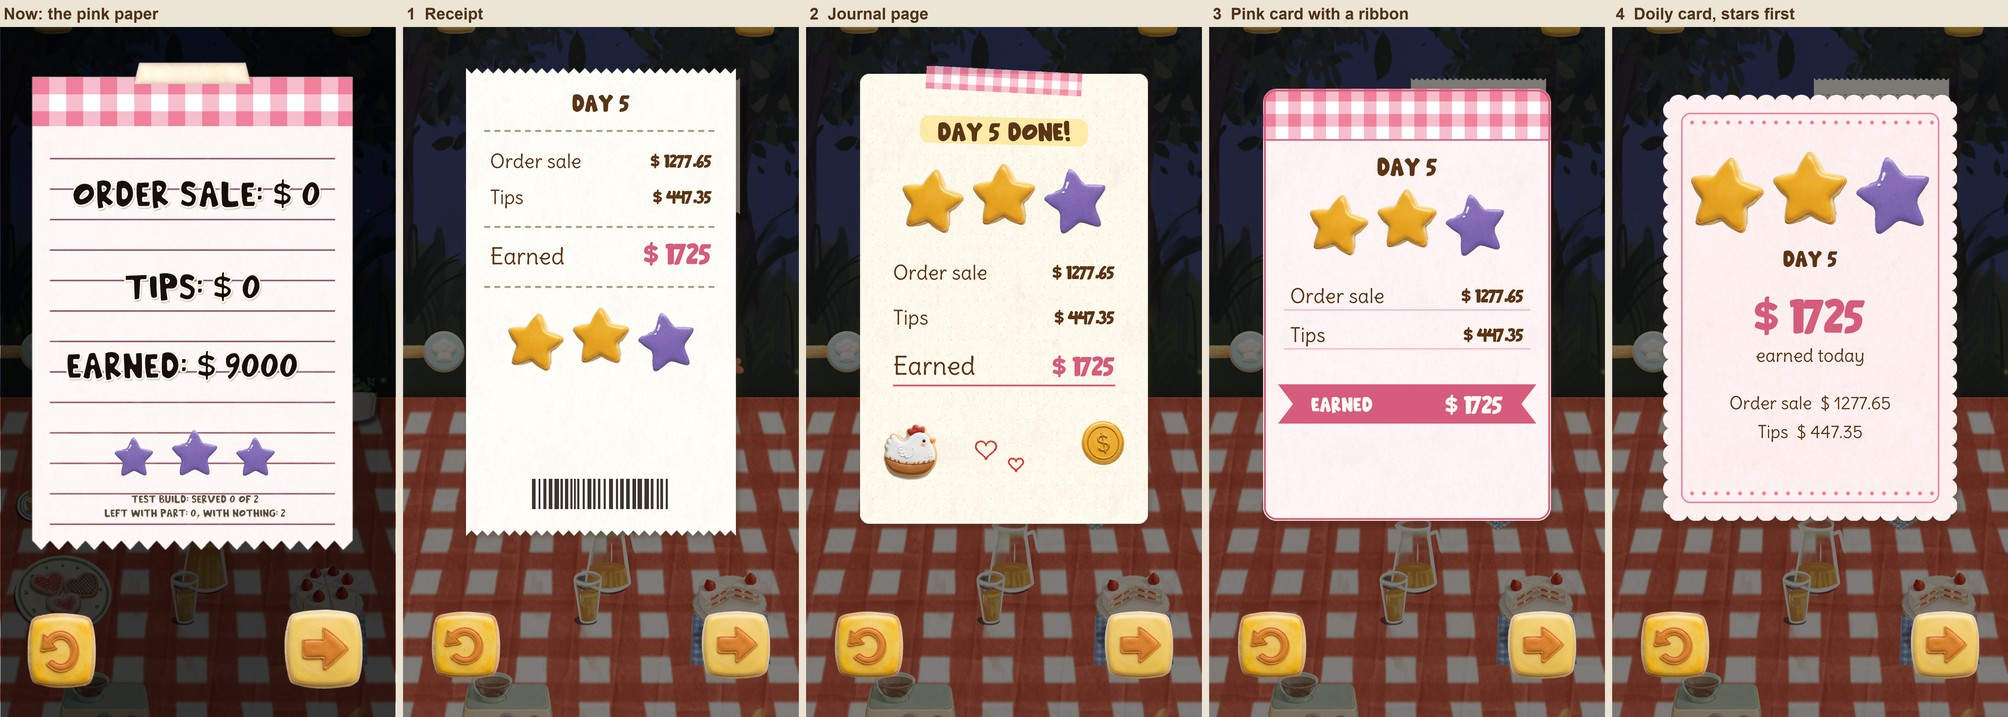
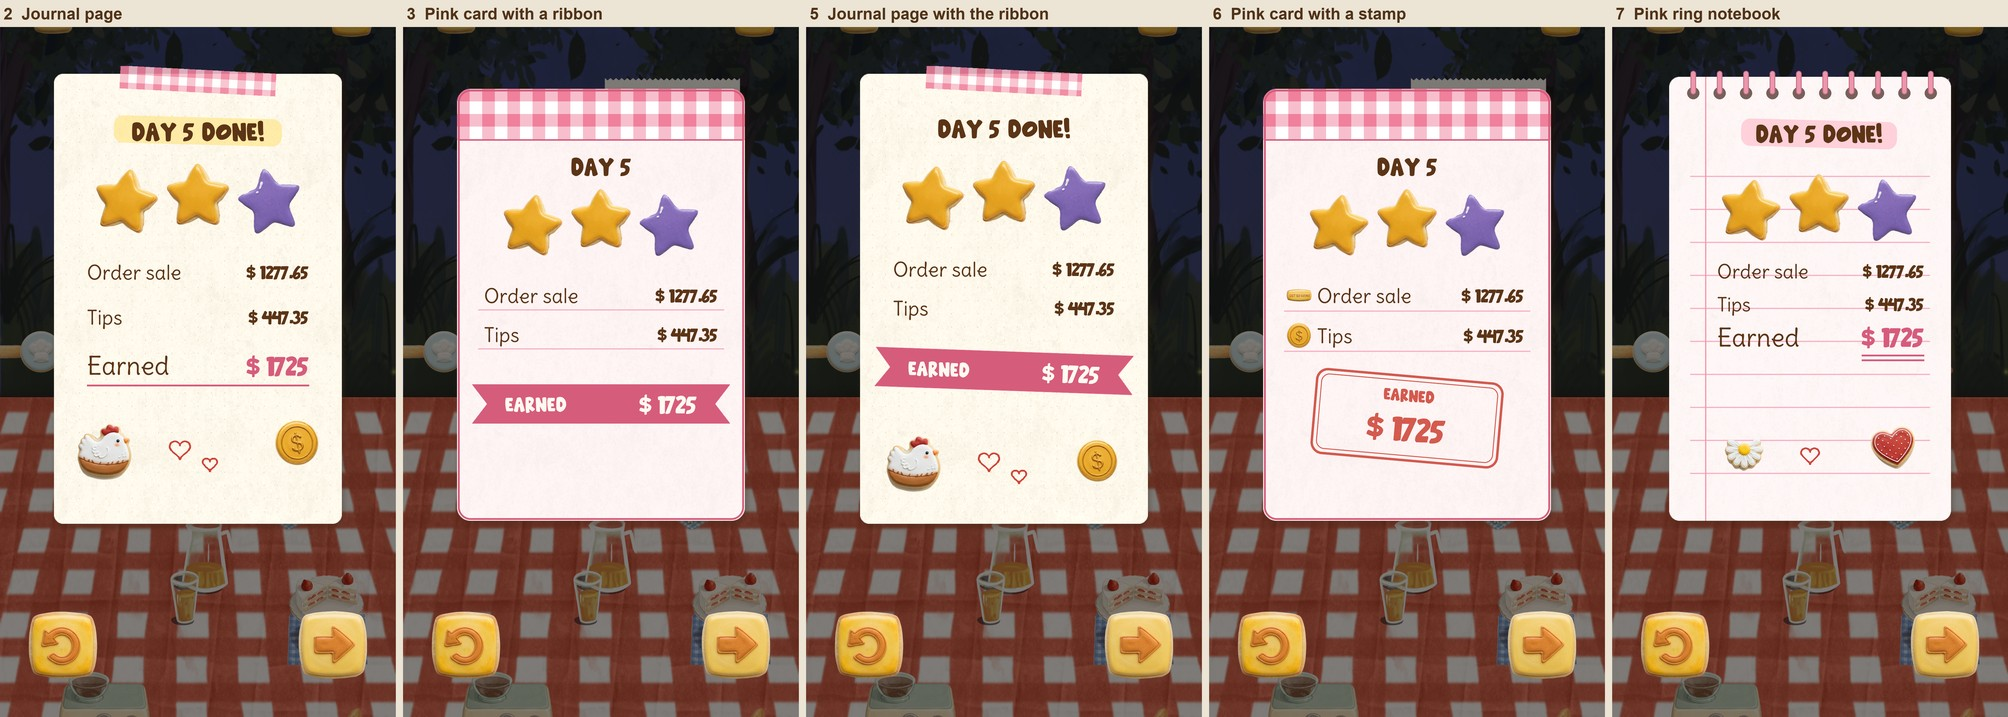
Report: kitchen upgrade, arranging lesson, shop before map, NEW on the book, day-end round 2, Q&A on the journal page's moment

diff --git a/Docs/tools/report_page/index.html b/Docs/tools/report_page/index.html
@@ -74,55 +74,94 @@ h3 small{font-weight:600;color:var(--soft);font-size:13px;margin-left:6px}
 <h2 id="next"><span class="n">1</span>Next</h2>
 <div class="grid">
 <div class="who p1"><h3>You</h3>
-<p><b>Test build 2026.11.19 (4) is in TestFlight</b> (18:50): build (3) plus the strawberry cake.</p>
-<p><b>Q&amp;A:</b> the drag-to-arrange lesson: four ways to make its timing clear.</p>
-<p><b>Current:</b> pick a day-end panel.</p>
-<p>The journal pages you approved (no brown tag) and the pink paper are in the project, after build (4).</p>
+<p><b>Test build 2026.11.19 (4) is the latest in TestFlight.</b> Everything in Current came after it; no new build until you say.</p>
+<p><b>Q&amp;A:</b> when a new journal page should show itself.</p>
+<p><b>Current:</b> pick a day-end panel; five other things to look at.</p>
 <p><b>MVP:</b> pick a mixer.</p>
 </div>
 <div class="who p2"><h3>Me</h3>
-<p>Unity's "No Adaptive Performance provider" box should not come back after a build (an empty helper package answers its check; nothing in the game changes). The next build will show whether it holds.</p>
+<p>A test build on your word.</p>
 </div>
 </div>
 
 <h2 id="qa"><span class="n">2</span>Q&amp;A</h2>
-<div class="q"><h3>The tutorial's drag-to-arrange: players may think they can always do it. How to fix?</h3>
+<div class="q"><h3>When should a new journal page show itself?</h3>
 <ul>
-<li><b>Why it confuses:</b> the tutorial on day 1 shows the hand dragging the coffee machine and the coffee bags in the middle of the lesson, with no word about <i>when</i>. Arranging is only possible before a day opens, and the first time that happens is day 2.</li>
-<li><b>A, teach it where it is real (my pick):</b> take the drag demo out of the day-1 tutorial. Play it at the start of day 2, in the arranging time itself: the hand drags the real machine, the banner says "Before you open: drag things where you like, then tap READY". The player can do it right away.</li>
-<li><b>B, keep it on day 1 but say when:</b> same demo, with the words "Before each day opens you can move things", then the hand taps READY and a line says "Open! Things stay put until tomorrow".</li>
-<li><b>C, a reminder during the day</b> (goes with A or B): if the player tries to drag something while the cafe is open, the thing gives a small shake and a line says "You can rearrange before opening". Shown the first two times only.</li>
-<li><b>D, make the arranging time look different:</b> a small SETTING UP sign (or the things wobble a little) until READY is tapped, so the mode is plain to see.</li>
-<li>I would do <b>A and C</b>: the lesson comes at the moment it can be used, and a wrong try gets an answer.</li>
+<li><b>Not at the moment it happens.</b> The first cake comes out of the oven, or the first ice cream is served, in the middle of a busy day; a page over the table then costs the player customers.</li>
+<li><b>A, when the shop opens after that day (my pick):</b> the book lives in the shop, and the shop now comes right after the day. The book's button hops, the book opens by itself on the new page, the player closes it and shops on. It also shows where the journal is kept. Several new pages: the book opens on the first, the arrows lead on.</li>
+<li><b>B, on the day-end panel:</b> under the stars, a small "new journal page" strip with the page's little picture; a tap opens the page. Nothing opens by itself.</li>
+<li><b>C, both:</b> the small strip on the day-end panel as a promise, and the page itself when the shop opens.</li>
+<li><b>Bought in the shop</b> (coffee machine, kitchen upgrade): the page opens right after the cookie is eaten, in every option.</li>
+<li>Today the page does not open by itself: the book's button shows NEW with its glow, and the pencil tab shows NEW.</li>
 </ul>
 <ul class="checks">
-<li><label><input type="checkbox" data-id="qa.arr.a"> A: move the demo to day 2's arranging time</label></li>
-<li><label><input type="checkbox" data-id="qa.arr.b"> B: keep it on day 1, say when</label></li>
-<li><label><input type="checkbox" data-id="qa.arr.c"> C: a reminder when dragging during the day</label></li>
-<li><label><input type="checkbox" data-id="qa.arr.d"> D: a SETTING UP sign while arranging</label></li>
-<li><label><input type="checkbox" data-id="qa.arr.other"> Something else (I will say)</label></li>
+<li><label><input type="checkbox" data-id="qa.jshow.a"> A: when the shop opens</label></li>
+<li><label><input type="checkbox" data-id="qa.jshow.b"> B: a strip on the day-end panel</label></li>
+<li><label><input type="checkbox" data-id="qa.jshow.c"> C: both</label></li>
+<li><label><input type="checkbox" data-id="qa.jshow.other"> Something else (I will say)</label></li>
 </ul>
 </div>
 
 <h2 id="current"><span class="n">3</span>Current</h2>
-<p class="sub" style="margin:0 0 8px">Release 1: the look.</p>
+<p class="sub" style="margin:0 0 8px">Release 1: the look. All of this is in the project, after build (4), each checked in the editor.</p>
 <div class="card">
-<p style="margin-top:0"><b>Day-end panel: four proposals.</b> Mock-ups on the real night table; the game still has the pink paper.</p>
-<figure><img src="dayend_proposals.jpg" alt="Five versions of the day-end panel. Now: the pink checked paper with ruled lines and black outlined words. 1: a white till receipt with zigzag ends: DAY 5, dashed lines, Order sale and Tips as rows with the amounts on the right, Earned in big pink numbers, three stars, a barcode. 2: a journal page on dotted paper: pink checked tape, DAY 5 DONE on a yellow highlight, three star stickers, the three rows, a hen and a coin sticker, drawn hearts. 3: a pale pink card with a pink checked band and a thin pink border: DAY 5, the stars, two ruled rows, and Earned on a pink ribbon. 4: a pink scalloped doily card: the three stars big on top, DAY 5, the total in very big pink numbers with the words earned today, the two rows small under it"><figcaption>Left: now. Then the four proposals. The sums are examples.</figcaption></figure>
+<p style="margin-top:0"><b>Day-end panel, second round: your 2 and 3, and three more.</b> Mock-ups; the game still has the pink paper.</p>
+<figure><img src="dayend_proposals.jpg" alt="Five day-end panels. 2: the journal page with pink checked tape, a highlighted DAY 5 DONE, star stickers, three rows, a hen and a coin. 3: the pink card with a checked band, two ruled rows and the total on a pink ribbon. 5: the journal page of 2 with the ribbon of 3 for the total. 6: the pink card of 3 with a small cookie beside each row and the total as a red ink stamp. 7: a pink ring notebook page with a pink highlight title, pink ruled lines, the total underlined twice, a daisy and a heart sticker"><figcaption>2 and 3 as before; 5, 6 and 7 are new.</figcaption></figure>
 <ul>
-<li><b>1, receipt:</b> the same family as the new serve receipt. Rows with the amount on the right, the total in pink, the stars, a barcode.</li>
-<li><b>2, journal page:</b> like a page of the journal: tape, a highlight title, star stickers, a hen and a coin, hearts.</li>
-<li><b>3, pink card with a ribbon:</b> the buy card's cousin in pink; the total sits on a ribbon.</li>
-<li><b>4, doily card, stars first:</b> the stars big on top, then the total very big, the two rows small.</li>
-<li><b>The words in all four:</b> labels in the handwriting font, numbers in the game's bold font, brown ink with the total in pink, instead of black letters with a rim. Each row has its label left and its amount right (1 to 3).</li>
-<li>My pick: <b>4</b> if the stars and the total should be read first; <b>1</b> if it should match the receipts.</li>
+<li><b>5:</b> the journal page of 2, with 3's ribbon for the total.</li>
+<li><b>6:</b> the pink card of 3, a small cookie beside each row, the total as a red ink stamp (like the journal's day stamp).</li>
+<li><b>7:</b> a pink ring notebook page: rings on top, pink lines, the total underlined twice.</li>
 </ul>
 <ul class="checks">
-<li><label><input type="checkbox" data-id="cur.dayend2.1"> 1 Receipt</label></li>
-<li><label><input type="checkbox" data-id="cur.dayend2.2"> 2 Journal page</label></li>
-<li><label><input type="checkbox" data-id="cur.dayend2.3"> 3 Pink card with a ribbon</label></li>
-<li><label><input type="checkbox" data-id="cur.dayend2.4"> 4 Doily card</label></li>
-<li><label><input type="checkbox" data-id="cur.dayend2.more"> More options (I will say what I like)</label></li>
+<li><label><input type="checkbox" data-id="cur.dayend3.2"> 2</label></li>
+<li><label><input type="checkbox" data-id="cur.dayend3.3"> 3</label></li>
+<li><label><input type="checkbox" data-id="cur.dayend3.5"> 5</label></li>
+<li><label><input type="checkbox" data-id="cur.dayend3.6"> 6</label></li>
+<li><label><input type="checkbox" data-id="cur.dayend3.7"> 7</label></li>
+<li><label><input type="checkbox" data-id="cur.dayend3.more"> More (I will say what I like)</label></li>
+</ul>
+</div>
+
+<div class="card">
+<p style="margin-top:0"><b>Kitchen upgrade, and prices you cannot pay yet.</b></p>
+<figure><img src="kitchen_upgrade.jpg" alt="Five shop pictures. The coins tab: every card shows its normal cookie; the prices that cannot be paid (450, 500, 600, 650) are red. The stars tab: a new round kitchen cookie at 15 stars beside the yoga coach. The buy card: Kitchen upgrade, 15 stars, Kitchen cooks faster. After buying: the book's button wears NEW and glows. The journal's new page Kitchen upgrade with a DAY 7 stamp, the kitchen cookie, three ticked lines"><figcaption>Coins tab; stars tab with the new card; its buy card; after buying; its journal page.</figcaption></figure>
+<ul>
+<li><b>Kitchen upgrade:</b> on the stars tab, 15 stars, the kitchen cookie, "Kitchen cooks faster". Once bought, every wait in the kitchen is a quarter shorter: the ovens, the blender, the waffle machine, and everything that grows or comes back (apples, coconuts, juice, coffee bags, cookies). A new machine such as the mixer joins with one line.</li>
+<li><b>Its journal page</b> comes with the purchase; it is on the Visuals page too.</li>
+<li><b>Cards you cannot pay for yet:</b> the same cookie as every card (no dark shape), the price in red, and a tap does nothing.</li>
+</ul>
+<ul class="checks">
+<li><label><input type="checkbox" data-id="cur.kitup.good"> Good</label></li>
+<li><label><input type="checkbox" data-id="cur.kitup.faster"> Faster still (a third shorter)</label></li>
+<li><label><input type="checkbox" data-id="cur.kitup.slower"> A little less (a fifth shorter)</label></li>
+<li><label><input type="checkbox" data-id="cur.kitup.change"> Changes (I will say what)</label></li>
+</ul>
+</div>
+
+<div class="card">
+<p style="margin-top:0"><b>The arranging lesson: on day 2, on a real thing.</b></p>
+<figure><img src="arrange_lesson.jpg" style="max-height:560px" alt="Three pictures of day 2 before opening. The table with the banner Drag things where you like before you tap READY and a hand on the coffee machine. The hand carrying the real coffee machine with its cups to the middle of the table. The kitchen with the banner The kitchen too: drag things where you like and the hand carrying the coffee bags down to the counter"><figcaption>Day 2, before opening: the hand takes the real coffee machine over and back; in the kitchen, the coffee bags.</figcaption></figure>
+<ul>
+<li><b>Day-1 tutorial:</b> no arranging in it any more.</li>
+<li><b>Day 2, the first arranging time:</b> the banner stays, with new words; the old picture of a hand and a bread basket is gone; the hand carries the real coffee machine once, and in the kitchen the coffee bags. A touch anywhere ends the lesson and puts the thing back.</li>
+</ul>
+<ul class="checks">
+<li><label><input type="checkbox" data-id="cur.lesson.good"> Good</label></li>
+<li><label><input type="checkbox" data-id="cur.lesson.change"> Changes (I will say what)</label></li>
+</ul>
+</div>
+
+<div class="card">
+<p style="margin-top:0"><b>Shop before the map; NEW on the book; the opening page's photo.</b></p>
+<figure><img src="book_new.jpg" alt="Five pictures: the shop with the book's button wearing NEW and a white glow with small stars; the book open on a new journal page, the staff tab and the cookies tab each wearing a small NEW; the staff part with NEW on the yoga coach; the cookies part with NEW on the juice; the shop again, the book's button plain"><figcaption>The book's button with NEW and its glow; NEW on each tab that holds something new; all looked at: plain again.</figcaption></figure>
+<ul>
+<li><b>After a day:</b> the day-end panel, then the shop, then the map (it was the map first).</li>
+<li><b>The book's button</b> wears NEW and the new glow for a new journal page, cookie or staff member. Inside, every tab with something new wears a small NEW; each part clears only its own.</li>
+<li><b>Opening day page:</b> its photo is now a real first day: two first customers, no yoga coach, chef or flower pots. It is on the Visuals page.</li>
+</ul>
+<ul class="checks">
+<li><label><input type="checkbox" data-id="cur.misc20.good"> Good</label></li>
+<li><label><input type="checkbox" data-id="cur.misc20.change"> Changes (I will say what)</label></li>
 </ul>
 </div>
 

diff --git a/Docs/tools/report_page/visuals.html b/Docs/tools/report_page/visuals.html
@@ -121,11 +121,12 @@ h3 small{font-weight:600;color:var(--soft);font-size:13px;margin-left:6px}
 
 <h2 id="journal"><span class="n">9</span>Journal</h2>
 <figure><img src="visuals/journal_book.jpg" alt="The book in the game four times: with nobody hired, two tabs (pencil, heart); with the yoga coach hired, three tabs and the journal page; the staff part on pale blue paper; the cookies part on pale pink paper"><figcaption>In the game: nobody hired (two tabs); the journal; the staff tab; the cookies tab.</figcaption></figure>
-<p class="sub" style="margin:14px 0 8px">The six pages. The brown tag on each carries the day it happened.</p>
+<p class="sub" style="margin:14px 0 8px">The seven pages. A red stamp carries the day it happened, when the day is known.</p>
 <figure style="display:inline-block;width:32%;margin:0 0.5% 12px;vertical-align:top"><img src="visuals/journal_open.jpg" alt="Journal page Opening day: red checked tape, the title on a yellow highlight, a small taped photo of the first table, bread and coffee stickers with handwritten labels, a brown note"><figcaption>Opening day: the first day finished.</figcaption></figure>
 <figure style="display:inline-block;width:32%;margin:0 0.5% 12px;vertical-align:top"><img src="visuals/journal_star3.jpg" alt="Journal page Three stars: mint tape, three star stickers, a yellow PERFECT ticket, a small photo, a hen sticker"><figcaption>Three stars: the first day with three stars.</figcaption></figure>
 <figure style="display:inline-block;width:32%;margin:0 0.5% 12px;vertical-align:top"><img src="visuals/journal_icecream.jpg" alt="Journal page First ice cream: the title on blue striped tape, a big ice cream sticker, a photo of the beach station, a ticked list, palm and coconut stickers"><figcaption>First ice cream: the first one served.</figcaption></figure>
 <figure style="display:inline-block;width:32%;margin:0 0.5% 12px;vertical-align:top"><img src="visuals/journal_cake.jpg" alt="Journal page Strawberry cake: the title on a pink highlight, a big cake sticker, a photo of the kitchen, a ticked list, an oven sticker"><figcaption>Strawberry cake: the first one out of the oven.</figcaption></figure>
 <figure style="display:inline-block;width:32%;margin:0 0.5% 12px;vertical-align:top"><img src="visuals/journal_choux.jpg" alt="Journal page Choux time: the title on mint striped tape, a big choux sticker, a pink note, whisk and daisy stickers"><figcaption>Choux: the first tray out of the oven.</figcaption></figure>
 <figure style="display:inline-block;width:32%;margin:0 0.5% 12px;vertical-align:top"><img src="visuals/journal_machine.jpg" alt="Journal page New coffee machine: the title on a yellow highlight, a big coffee machine sticker, two coffee cups with an arrow and the words two at once, a coffee bags sticker"><figcaption>Coffee machine: the upgrade bought.</figcaption></figure>
+<figure style="display:inline-block;width:32%;margin:0 0.5% 12px;vertical-align:top"><img src="visuals/journal_kitchen.jpg" alt="Journal page Kitchen upgrade: the title on yellow striped tape, a big round kitchen cookie, the words The kitchen cooks faster now, three ticked lines, oven and whisk stickers"><figcaption>Kitchen upgrade: bought for 15 stars.</figcaption></figure>
 </main></body></html>
